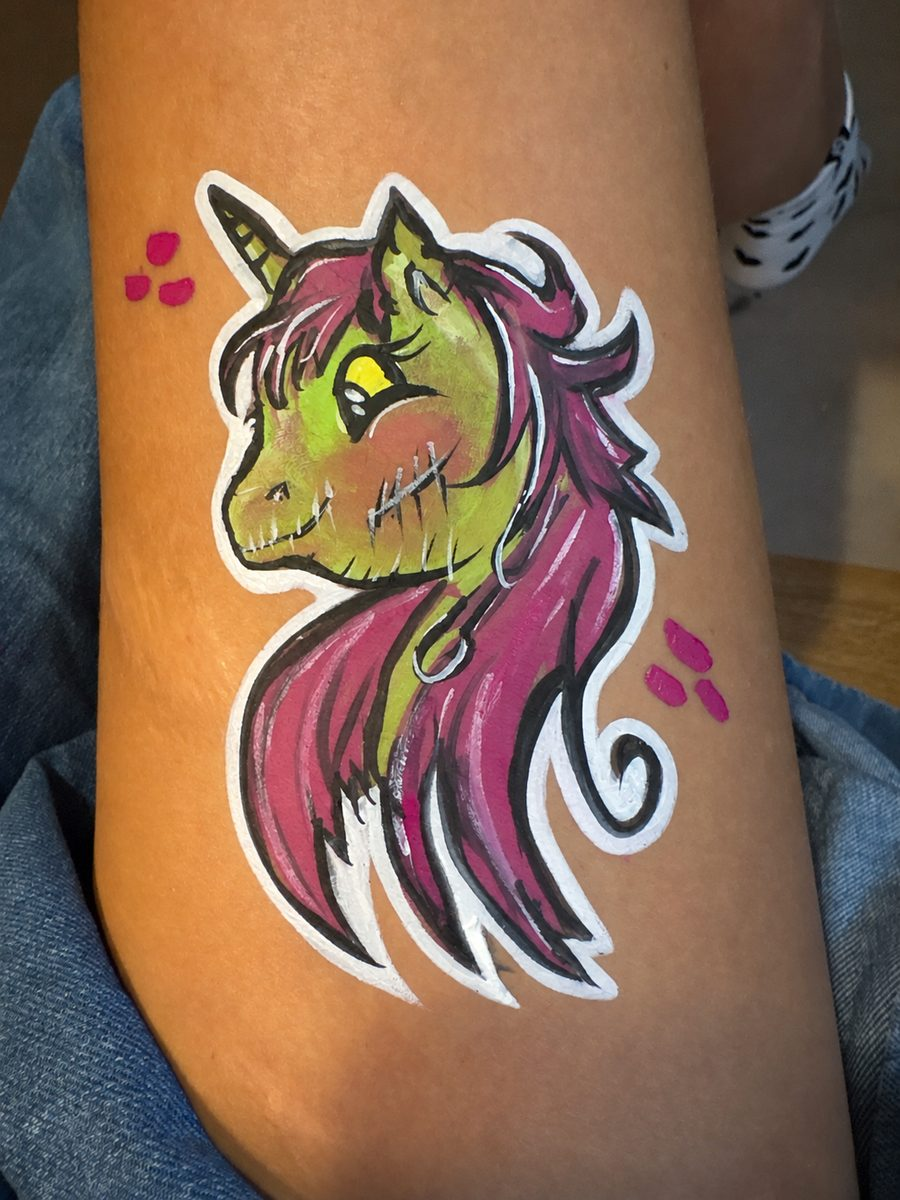
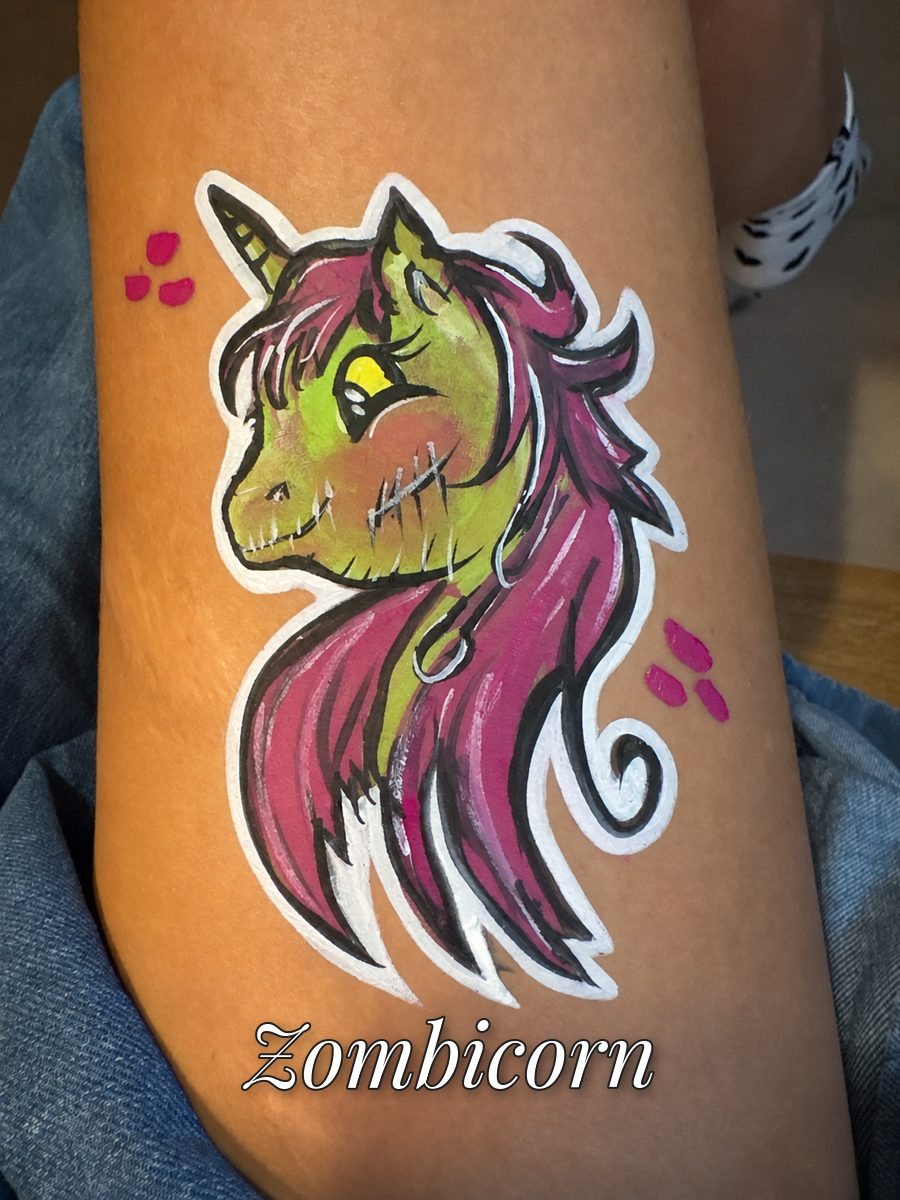
Bild: Zombie-Einhorn mit Schriftzug «Zombicorn»
Anfrage: Schriftzug «Zombicorn» ins Zombie-Einhorn-Bild einfügen, Alt-Texte anpassen
Dateien: index.html, halloween-events.html, en/index.html, en/halloween-events.html, src/images/gallery/Erwachsene/zombie-einhorn-face-art-arm.jpg, src/images/gallery/Erwachsene/zombie-einhorn-face-art-arm.webp

Changed region(s): [[0.2489, 0.8325, 0.7467, 0.925]]

diff --git a/index.html b/index.html
@@ -350,7 +350,7 @@
             </a>
             <a href="halloween-events" class="service-card">
               <div class="service-card__img service-card__img--halloween">
-                <img loading="lazy" src="src/images/gallery/Erwachsene/zombie-einhorn-face-art-arm.jpg" alt="Zombie-Einhorn als Body Art auf dem Arm geschminkt" width="900" height="1200">
+                <img loading="lazy" src="src/images/gallery/Erwachsene/zombie-einhorn-face-art-arm.jpg" alt="Zombie-Einhorn als Body Art auf dem Arm, beschriftet «Zombicorn»" width="900" height="1200">
               </div>
               <div class="service-card__body">
                 <h3 class="service-card__title" data-i18n="index.card_halloween_title">Halloween &amp; Events</h3>

diff --git a/en/index.html b/en/index.html
@@ -421,7 +421,7 @@
             </a>
             <a href="halloween-events" class="service-card">
               <div class="service-card__img service-card__img--halloween">
-                <img loading="lazy" src="../src/images/gallery/Erwachsene/zombie-einhorn-face-art-arm.jpg" alt="Zombie unicorn body art painted on an arm" width="900" height="1200">
+                <img loading="lazy" src="../src/images/gallery/Erwachsene/zombie-einhorn-face-art-arm.jpg" alt="Zombie unicorn body art on an arm, labelled &quot;Zombicorn&quot;" width="900" height="1200">
               </div>
               <div class="service-card__body">
                 <h3 class="service-card__title" data-i18n="index.card_halloween_title">Halloween &amp; Events</h3>

diff --git a/halloween-events.html b/halloween-events.html
@@ -159,7 +159,7 @@
           </div>
           <div>
             <!-- Bei mehreren Bildern wieder auf .img-acc umstellen (Komponente in main.css / main.js vorhanden) -->
-            <img loading="lazy" src="src/images/gallery/Erwachsene/zombie-einhorn-face-art-arm.jpg" alt="Zombie-Einhorn als Body Art auf dem Arm geschminkt" width="900" height="1200" style="border-radius: var(--radius);">
+            <img loading="lazy" src="src/images/gallery/Erwachsene/zombie-einhorn-face-art-arm.jpg" alt="Zombie-Einhorn als Body Art auf dem Arm, beschriftet «Zombicorn»" width="900" height="1200" style="border-radius: var(--radius);">
           </div>
         </div>
       </div>

diff --git a/en/halloween-events.html b/en/halloween-events.html
@@ -159,7 +159,7 @@
           </div>
           <div>
             <!-- Bei mehreren Bildern wieder auf .img-acc umstellen (Komponente in main.css / main.js vorhanden) -->
-            <img loading="lazy" src="../src/images/gallery/Erwachsene/zombie-einhorn-face-art-arm.jpg" alt="Zombie unicorn body art painted on an arm" width="900" height="1200" style="border-radius: var(--radius);">
+            <img loading="lazy" src="../src/images/gallery/Erwachsene/zombie-einhorn-face-art-arm.jpg" alt="Zombie unicorn body art on an arm, labelled &quot;Zombicorn&quot;" width="900" height="1200" style="border-radius: var(--radius);">
           </div>
         </div>
       </div>
